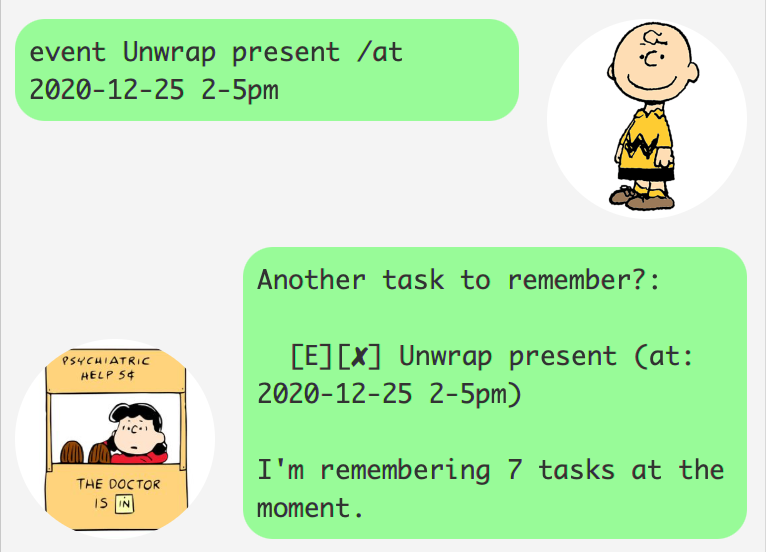
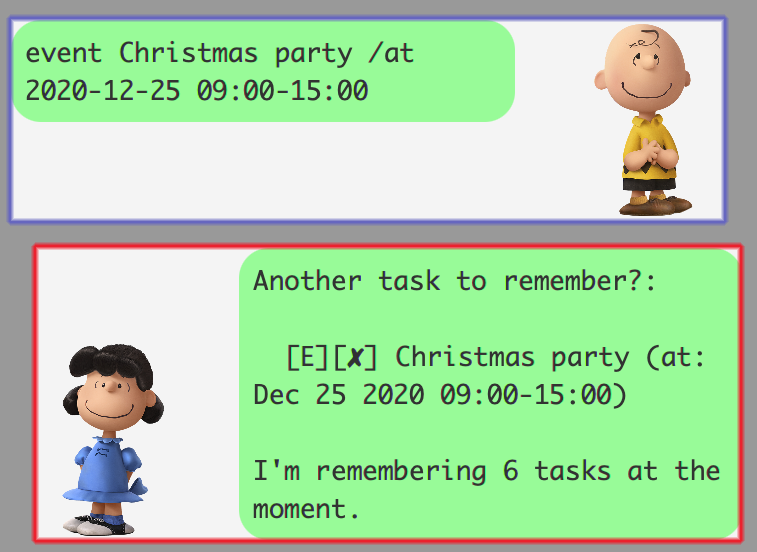
Update README.md

diff --git a/docs/README.md b/docs/README.md
@@ -1,174 +1,198 @@
 # User Guide
-1. [Introduction](#1-introduction)
-2. [Features](#2-features)
-3. [Usage](#3-usage)
-    1. [`deadline` - Add a deadline](#deadline---add-a-deadline)
-    2. [`event` - Add an event](#event---add-an-event)
-    3. [`todo` - Add a todo](#todo---add-a-todo)
-    4. [`delete` - Delete a task](#delete---delete-a-task)
-    5. [`done` - Mark a task as done](#done---mark-a-task-as-done)
-    6. [`find` - Find tasks by keyword](#find---find-tasks-by-keyword)
-    7. [`list` - Display the task list](#list---display-the-task-list)
-    8. [`bye` - End the program](#bye---end-the-program)
+* [1. Introduction](#1-introduction)  
+* [2. Features](#2-features)  
+* [3. Usage](#3-usage)  
+    * [3.1. `deadline` - Add a deadline](#deadline---add-a-deadline)
+    * [3.2. `event` - Add an event](#event---add-an-event)
+    * [3.3. `todo` - Add a todo](#todo---add-a-todo)
+    * [3.4. `delete` - Delete a task](#delete---delete-a-task)
+    * [3.5. `done` - Mark a task as done](#done---mark-a-task-as-done)
+    * [3.6. `find` - Find tasks by keyword](#find---find-tasks-by-keyword)
+    * [3.7. `list` - Display the task list](#list---display-the-task-list)
+    * [3.8. `bye` - End the program](#bye---end-the-program)
 
 
 ## 1. Introduction
-Duke is a light-weight task organiser, helping users to keep track of their deadlines, events, and daily tasks.
-In addition, all tasks that are managed by Duke are saved in a portable format so that users can easily upload or
-transfer their tasks to any desktop platform!
+Duke is a light-weight task organiser, helping users to keep track of their
+deadlines, events, and daily tasks. In addition, all tasks that are managed by
+Duke are saved in a portable format so that users can easily upload or transfer
+their tasks to any desktop platform!
 
 
 ## 2. Features
-- Adding different types of tasks
-    - Deadlines
-    - Events
-    - Todos
+* Adding different types of tasks
+    * Deadlines
+    * Events
+    * Todos
     
-- Marking completed tasks
-- Deleting tasks
-- Finding tasks by keyword
-- Automatically saving the task list in a save file
-- Automatically Loading a task list from a save file
+* Marking completed tasks
+* Deleting tasks
+* Finding tasks by keyword
+* Automatically saving the task list in a save file
+* Automatically Loading a task list from a save file
 
 
 ## 3. Usage
 
-#### Command Format
-- Each command begins with a keyword, followed by a number of compulsory parameters.
+### Command Format
+* Each command begins with a keyword, followed by a number of compulsory parameters.
 
-- Items in square brackets are compulsory parameters to be supplied by the user.
-eg. in `todo Wake up!`, `Wake up!` fills in the `[description]` parameter of the command
-that creates a todo (see `todo [description]`).
+* Words in `UPPER_CASE` are the required parameters for the command.
+    These parameters must be supplied by the user in order for the command to
+    execute successfully.
+    eg. in `todo Wake up!`, `Wake up!` is the `DESCRIPTION` parameter
+    of the [`todo`](#todo---add-a-todo) command.
 
-- Parameters are `CASE_SENSITIVE`, meaning that n
+- Parameters are `CASE_SENSITIVE`, and are not formatted during input processing.
 
-- `[date]` parameters must be supplied in the following format: `yyyy-mm-dd`. eg. `2020-12-25` for 25 Decemeber 2020.
+- `DATE` parameters must be supplied in the following format: `yyyy-mm-dd`.
+    eg. `2020-12-25` for 25 December 2020.
 
-- `[time]` parameters must be supplied in the following format: `h-ham/pm`. eg. `8-12pm`.
-The time interval should be provided from earliest to latest. eg. `12-8am` is not supported.
+- `START_TIME` and `END_TIME` are time parameters that must be
+    supplied in the following 24-hour format: `HH:mm`. eg. `08:30` for 8:30am.
+    Also, when a command has a `START_TIME` and `END_TIME`,
+    `START_TIME` must be before `END_TIME`.
 
-&nbsp;
-#### Task Descriptions
-- All tasks types require a `description`.
+### Task Descriptions
+- All tasks types require a `DESCRIPTION`.
 
-- Descriptions are `CASE_SENSITIVE`, meaning
-that the description that the user supplies will not be formatted.
+- Descriptions are `CASE_SENSITIVE`, and will not be formatted.
 
-- Two tasks cannot have the same description if they belong to the same type of task.
+- Two tasks cannot have the same description if they belong to the same type of task.  
 
-&nbsp;
-#### Command List
+### Command List
 
-### `deadline` - Add a deadline
+#### `deadline` - Add a deadline
 
 Adds a deadline to the task list.
 A deadline is a task that has a completion date,
-which must be specified after the `/by` keyword.
-\
-\
-Format: `deadline [description] /by [date]`
+which must be specified after the `/by` keyword.  
+
+Format: `deadline DESCRIPTION /by DATE`
 
 Example of usage: 
 
 ![deadline](deadline.png)
 
+In blue: Adding a todo with `Buy Christmas presents` as the `DESCRIPTION`,
+`2020-12-24` as the `DATE`.  
 
-&nbsp;
-### `event` - Add an event
+In red: A message confirming that the deadline was added successfully.
+
+---
+#### `event` - Add an event
 
 Adds an event to the task list.
 An event is a task that has a scheduled date and time interval,
-which must be specified in that order after the `/at` keyword.
-\
-\
-Format: `event [description] /at [date] [time]`
+which must be specified in that order after the `/at` keyword.  
+
+Format: `event DESCRIPTION /at DATE START_TIME END_TIME`
 
 Example of usage: 
 
 ![event](event.png)
 
+In blue: Adding a todo with `Christmas party` as the `DESCRIPTION`,
+`2020-12-25` as the `DATE`,
+`09:00` as the `START_TIME`, and
+'15:00' as the `END_TIME`.  
 
-&nbsp;
-### `todo` - Add a todo
+In red: A message confirming that the event was added successfully.
+
+---
+#### `todo` - Add a todo
 
 Adds a todo to the task list.
-A todo is a task that only has a description.
-\
-\
-Format: `todo [description]`
+A todo is a task that only has a description.  
+
+Format: `todo DESCRIPTION`
 
 Example of usage: 
 
 ![todo](todo.png)
 
+In blue: Adding a todo with `Practise piano` as the `DESCRIPTION`.  
 
-&nbsp;
+In red: A message confirming that the todo was added successfully.
+
+---
 ### `delete` - Delete a task
 
 Removes a task from the task list by specifying their position in the current list.
-To obtain the `[task id]` of the task to remove, use the `list` command.
-\
-\
-Format: `delete [task id]`
+To obtain the `TASK_ID` of a task, use the [`list`](#list---display-the-task-list) command.  
+
+Format: `delete TASK_ID`
+- `TASK_ID` - the position number of the task in the current task list.
 
 Example of usage: 
 
 ![delete](delete.png)
 
+In blue: Deleting task number `1` in the list.  
 
-&nbsp;
+In red: A message confirming that the task deleted successfully.
+
+---
 ### `done` - Mark a task as done
 
 Marks a task as done in the task list by specifying their position in the current list.
-A tick should appear next to the description of the task if it has been marked as done correctly.
-To obtain the `[task id]` of the task to mark as done, use the `list` command.
-\
-\
-Format: `done [task id]`
+A tick will appear next to the task description to indicate that the task is done.
+To obtain the `TASK_ID` of a task, use the [`list`](#list---display-the-task-list) command.   
+
+Format: `done TASK_ID`
+- `TASK_ID` - the position number of the task in the current task list.
 
 Example of usage: 
 
 ![done](done.png)
 
+In blue: Marking task number `1` in the list as done.  
 
-&nbsp;
+In red: A message confirming that the task was successfully marked as done.
+
+---
 ### `find` - Find tasks by keyword
 
 Searches through the list of tasks, and displays all tasks that contain
-the keyword in their description. The keyword used to search is `CASE_INSENSITVE`, meaning that
-all the task descriptions and the keyword will be compared in `LOWER_CASE`.
-\
-\
-Format: `find [keyword]`
+all the keywords in their description. The keyword used to search is `CASE_INSENSITVE`, meaning that
+all the task descriptions and the keyword will be compared in `LOWER_CASE`.  
+
+Format: `find KEYWORD1 KEYWORD2 ...`
+- There is no limit to the number of `KEYWORDS`
 
 Example of usage: 
 
 ![find](find.png)
 
-
-&nbsp;
+---
 ### `list` - Display the task list
 
-Displays the list of tasks by ordering them numerically . Tasks will be listed in
-the order that they were inserted into the list.
-\
-\
+Displays the list of tasks and orders them numerically. Tasks will be listed in
+the order that they were inserted into the list.  
+
 Format: `list`
 
 Example of usage: 
 
 ![list](list.png)
 
+In blue: Asking for the list of tasks to be shown.  
 
-&nbsp;
+In red: A message showing the entire list of tasks,
+ordered numerically from earliest to latest addition.
+
+---
 ### `bye` - End the program
 
-Finish managing the task list. The user can continue to input commands,
-but they will not be processed. Duke must be restarted in order to process more commands.
-\
-\
+Stops the chat-bot from replying. The user can continue to input commands,
+but they will not be processed. Duke must be restarted in order to process more commands.  
+
 Format: `bye`
 
 Example of usage: 
 
 ![bye](bye.png)
+
+In blue: Asking the bot to stop processing commands.  
+
+In red: A message confirming that the chat-bot stopped successfully.
